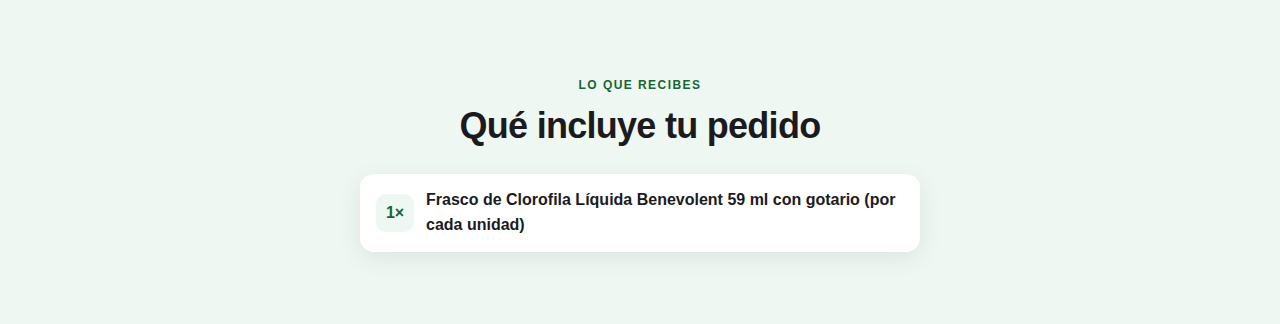
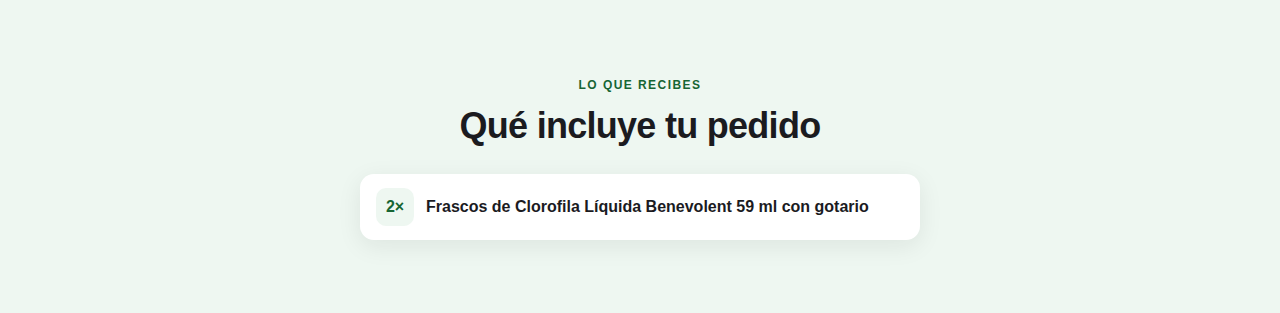
Entalle v6: ocultar todos los botones de Releasit, incluida su barra fija móvil
Claude-Session: https://claude.ai/code/session_011xhVLJXXBEnhsuAw4TkkHE

diff --git a/entalle/preview/clorofila-cod.html b/entalle/preview/clorofila-cod.html
@@ -94,7 +94,7 @@
 </div></div></section>
 <section class="el el-section el-section--soft" id="el-howto"><div class="el-container el-rv"><div class="el-head"><span class="el-eyebrow">Modo de uso</span></div><div class="el-mt"><div class="el-mt__media"><img src="media/5.webp" alt="Cómo consumir: llena un vaso, agrega 15 gotas, mezcla y disfruta" width="1254" height="1254" loading="lazy"></div><div class="el-mt__body"><h2>Fácil de incorporar a tu día</h2><div class="el-rte"><p>Llena un vaso con agua, agrega 15 gotas, mezcla y disfruta. Sigue siempre las indicaciones de la etiqueta.</p></div><ul class="el-bullets"><li >💧 15 gotas por vaso</li><li >🍃 Sabor menta, fresco</li><li >🎒 Frasco de 59 ml con gotario, fácil de llevar</li></ul></div></div></div></section>
 <section class="el el-section" id="el-ingredients"><div class="el-container el-rv"><div class="el-head"><span class="el-eyebrow">Composición</span><h2>Ingredientes naturales</h2><p>Según la etiqueta del fabricante.</p></div><div class="el-grid" style="--cols-m:2;--cols-d:6"><div class="el-card" ><div class="el-card__ico" aria-hidden="true">🍃</div><h3>Clorofila</h3></div><div class="el-card" ><div class="el-card__ico" aria-hidden="true">🌿</div><h3>Menta</h3></div><div class="el-card" ><div class="el-card__ico" aria-hidden="true">🌳</div><h3>Eucalipto</h3></div><div class="el-card" ><div class="el-card__ico" aria-hidden="true">🍵</div><h3>Té verde</h3></div><div class="el-card" ><div class="el-card__ico" aria-hidden="true">🌲</div><h3>Romero</h3></div><div class="el-card" ><div class="el-card__ico" aria-hidden="true">🟢</div><h3>Amla</h3></div></div></div></section>
-<section class="el el-section el-section--soft" id="el-included"><div class="el-container el-rv"><div class="el-head"><span class="el-eyebrow">Lo que recibes</span><h2>Qué incluye tu pedido</h2></div><ul class="el-included"><li ><b>1×</b><span>Frasco de Clorofila Líquida Benevolent 59 ml con gotario (por cada unidad)</span></li></ul></div></section>
+<section class="el el-section el-section--soft" id="el-included"><div class="el-container el-rv"><div class="el-head"><span class="el-eyebrow">Lo que recibes</span><h2>Qué incluye tu pedido</h2></div><ul class="el-included"><li ><b><span data-el-qty-mult="1">1</span>×</b><span>Frascos de Clorofila Líquida Benevolent 59 ml con gotario</span></li></ul></div></section>
 
 <section class="el el-section el-section--soft" id="el-faq"><div class="el-container el-rv"><div class="el-head"><span class="el-eyebrow">Resolvemos tus dudas</span><h2>Preguntas frecuentes</h2></div><div class="el-faq el-acc"><details ><summary>¿Cómo funciona el 2x1?</summary><div class="el-rte"><p>Elige la opción «Lleva 2 y paga 1»: recibes 2 frascos por $28.990, el mismo precio de un frasco individual. Si quieres más, el pack para compartir trae 4 frascos por $57.980 (dos promociones 2x1). También puedes comprar 1 frasco por $28.990.</p></div></details><details ><summary>¿Cuánto demora en llegar?</summary><div class="el-rte"><p>Tu pedido llega entre 2 y 6 días después de la compra. Arriba del botón de compra ves las fechas estimadas según el día en que compras.</p></div></details><details ><summary>¿El envío tiene costo?</summary><div class="el-rte"><p>No. El envío es gratis en todos los pedidos.</p></div></details><details ><summary>¿Cómo se consume?</summary><div class="el-rte"><p>Agrega 15 gotas a un vaso de agua, mezcla y disfruta. Sigue siempre las indicaciones de la etiqueta.</p></div></details><details ><summary>¿Tiene alcohol o gluten?</summary><div class="el-rte"><p>No. Es una fórmula sin alcohol, sin gluten y apta para veganos.</p></div></details><details ><summary>¿Puedo tomarlo si estoy embarazada o tomo medicamentos?</summary><div class="el-rte"><p>Si estás embarazada, amamantando o en tratamiento médico, consulta a tu médico antes de consumirlo.</p></div></details><details ><summary>¿Qué pasa si tengo un problema con mi pedido?</summary><div class="el-rte"><p>Tienes 30 días de garantía. Escríbenos por WhatsApp al +56 9 4058 9575 o a contacto@entalle.cl y lo resolvemos.</p></div></details></div><script type="application/ld+json">{"@context":"https://schema.org","@type":"FAQPage","mainEntity":[{"@type":"Question","name":"¿Cómo funciona el 2x1?","acceptedAnswer":{"@type":"Answer","text":"Elige la opción «Lleva 2 y paga 1»: recibes 2 frascos por $28.990, el mismo precio de un frasco individual. Si quieres más, el pack para compartir trae 4 frascos por $57.980 (dos promociones 2x1). También puedes comprar 1 frasco por $28.990."}},{"@type":"Question","name":"¿Cuánto demora en llegar?","acceptedAnswer":{"@type":"Answer","text":"Tu pedido llega entre 2 y 6 días después de la compra. Arriba del botón de compra ves las fechas estimadas según el día en que compras."}},{"@type":"Question","name":"¿El envío tiene costo?","acceptedAnswer":{"@type":"Answer","text":"No. El envío es gratis en todos los pedidos."}},{"@type":"Question","name":"¿Cómo se consume?","acceptedAnswer":{"@type":"Answer","text":"Agrega 15 gotas a un vaso de agua, mezcla y disfruta. Sigue siempre las indicaciones de la etiqueta."}},{"@type":"Question","name":"¿Tiene alcohol o gluten?","acceptedAnswer":{"@type":"Answer","text":"No. Es una fórmula sin alcohol, sin gluten y apta para veganos."}},{"@type":"Question","name":"¿Puedo tomarlo si estoy embarazada o tomo medicamentos?","acceptedAnswer":{"@type":"Answer","text":"Si estás embarazada, amamantando o en tratamiento médico, consulta a tu médico antes de consumirlo."}},{"@type":"Question","name":"¿Qué pasa si tengo un problema con mi pedido?","acceptedAnswer":{"@type":"Answer","text":"Tienes 30 días de garantía. Escríbenos por WhatsApp al +56 9 4058 9575 o a contacto@entalle.cl y lo resolvemos."}}]}</script><div style="max-width:440px;margin:28px auto 0"><button type="button" class="el-btn el-anim-pulse " data-el-buy data-el-anim>
   <span class="el-btn__txt"><span data-el-buy-label>PIDE AHORA</span><small>Pagas al recibir</small></span>
@@ -128,5 +128,5 @@
   </div>
 </div><a class="el el-float el-float--wa" href="https://wa.me/56940589575?text=Hola%2C%20tengo%20una%20consulta%20sobre%20Clorofila%20L%C3%ADquida%20Benevolent%2059%20ml%20%C2%B7%202x1" target="_blank" rel="noopener" aria-label="Escríbenos por WhatsApp"><svg viewBox="0 0 32 32" aria-hidden="true"><path d="M16 3C9 3 3.3 8.6 3.3 15.6c0 2.4.7 4.7 1.9 6.7L3 29l6.9-2.1c1.9 1 4 1.6 6.1 1.6 7 0 12.7-5.7 12.7-12.7S23 3 16 3zm0 23.2c-1.9 0-3.8-.5-5.4-1.5l-.4-.2-4.1 1.2 1.2-4-.3-.4c-1.1-1.7-1.7-3.7-1.7-5.7C5.3 9.8 10.1 5 16 5s10.7 4.8 10.7 10.7S21.9 26.2 16 26.2zm5.9-8c-.3-.2-1.9-.9-2.2-1-.3-.1-.5-.2-.7.2-.2.3-.8 1-1 1.2-.2.2-.4.2-.7.1-.3-.2-1.4-.5-2.6-1.6-1-.9-1.6-1.9-1.8-2.3-.2-.3 0-.5.1-.7l.5-.6c.2-.2.2-.3.3-.6.1-.2 0-.4 0-.6l-1-2.4c-.3-.6-.5-.5-.7-.5h-.6c-.2 0-.6.1-.9.4-.3.3-1.2 1.2-1.2 2.9s1.2 3.4 1.4 3.6c.2.2 2.4 3.7 5.9 5.1 2.9 1.1 3.5.9 4.1.8.6-.1 1.9-.8 2.2-1.5.3-.8.3-1.4.2-1.5-.1-.2-.3-.3-.6-.4z"/></svg></a><button type="button" class="el el-float el-float--top" data-el-top aria-label="Volver arriba" tabindex="-1">↑</button>
 </main><footer class="footer" style="padding:48px 16px;color:#fff">Pie de página (simulado)</footer>
-<script>window.__nav=[];</script><script>document.addEventListener('DOMContentLoaded',function(){var f=document.querySelector('[data-el-form]');f&&f.insertAdjacentHTML('beforeend',"<div class=\"_rsi-buy-now-button-app-block\"><button type=\"button\" class=\"_rsi-buy-now-button\" onclick=\"document.getElementById('codmodal').style.display='block';window.__codOpened=(window.__codOpened||0)+1\">Buy with Cash on Delivery</button></div>");document.body.insertAdjacentHTML('beforeend',"<div id=\"codmodal\" class=\"_rsi-modal\" style=\"display:none;position:fixed;inset:0;background:#0008;z-index:100\"><div style=\"background:#fff;margin:40px auto;max-width:420px;height:70vh;padding:20px\">Formulario COD simulado <button onclick=\"this.closest('#codmodal').style.display='none'\">cerrar</button></div></div>");});</script>
+<script>window.__nav=[];</script><script>document.addEventListener('DOMContentLoaded',function(){var f=document.querySelector('[data-el-form]');f&&f.insertAdjacentHTML('beforeend',"<div class=\"_rsi-buy-now-button-app-block\"><button type=\"button\" class=\"_rsi-buy-now-button\" onclick=\"document.getElementById('codmodal').style.display='block';window.__codOpened=(window.__codOpened||0)+1\">Buy with Cash on Delivery</button></div><div class=\"_rsi-sticky-bar\" style=\"position:fixed;left:0;right:0;bottom:0;z-index:70;background:#000;padding:10px\"><button type=\"button\" class=\"_rsi-sticky-btn\" onclick=\"document.getElementById('codmodal').style.display='block';window.__codOpened=(window.__codOpened||0)+1\">Buy with Cash on Delivery</button></div>");document.body.insertAdjacentHTML('beforeend',"<div id=\"codmodal\" class=\"_rsi-modal\" style=\"display:none;position:fixed;inset:0;background:#0008;z-index:100\"><div style=\"background:#fff;margin:40px auto;max-width:420px;height:70vh;padding:20px\">Formulario COD simulado <button onclick=\"this.closest('#codmodal').style.display='none'\">cerrar</button></div></div>");});</script>
 <script src="../theme/assets/el-core.js" defer></script></body></html>

diff --git a/entalle/theme/assets/el-core.js b/entalle/theme/assets/el-core.js
@@ -90,31 +90,49 @@
   var COD_CLS = /(^|[\s_-])(rsi|releasit)/i;
   function ours(el) { return el.closest('[data-el-buy],.el-sticky,.el-float,.el-offer,.el-acc,.el-gallery,[data-el-ignore]'); }
   function meta(el) { var c = el.className; c = (c && c.baseVal !== undefined) ? c.baseVal : (c || ''); return c + ' ' + (el.id || ''); }
-  function findCod() {
-    var scope = (S.root && S.root.querySelector('.el-buy')) || document;
-    var sets = [scope, document];
-    for (var s = 0; s < sets.length; s++) {
-      var list = sets[s].querySelectorAll('button,a,[role=button],input[type=submit]');
-      for (var i = 0; i < list.length; i++) {
-        var el = list[i];
-        if (ours(el)) continue;
-        if (COD_CLS.test(meta(el)) || (el.parentElement && COD_CLS.test(meta(el.parentElement)))) return el;
-        if (s === 0 && COD_TXT.test((el.innerText || el.value || '').trim())) return el;
-      }
+  // Releasit puede insertar varios botones: el del producto y una barra fija inferior en móvil.
+  // Se ocultan todos (siguen en el DOM y se usan para abrir su formulario).
+  function fixedAncestor(el) {
+    for (var n = el; n && n !== document.body; n = n.parentElement) {
+      var p = getComputedStyle(n).position;
+      if (p === 'fixed' || p === 'sticky') return n;
     }
     return null;
   }
+  function findAllCod() {
+    var scope = (S.root && S.root.querySelector('.el-buy')) || document, out = [];
+    var list = document.querySelectorAll('button,a,[role=button],input[type=submit]');
+    for (var i = 0; i < list.length; i++) {
+      var el = list[i];
+      if (ours(el) || out.indexOf(el) > -1) continue;
+      var byCls = COD_CLS.test(meta(el)) || (el.parentElement && COD_CLS.test(meta(el.parentElement)));
+      var byTxt = COD_TXT.test((el.innerText || el.textContent || el.value || '').trim());
+      if (byCls || (byTxt && (scope.contains(el) || fixedAncestor(el) || el.classList.contains('el-cod-btn')))) out.push(el);
+    }
+    return out;
+  }
+  function findCod() {
+    if (EL.codBtn && EL.codBtn.isConnected) return EL.codBtn;
+    var all = findAllCod();
+    return all.filter(function (b) { return !b.closest('.el-cod-fixed'); })[0] || all[0] || null;
+  }
   function hideCod(b) {
-    var box = b, p = b.parentElement;
-    if (p && p.children.length === 1 && !p.matches('form,.el-buy')) box = p;
+    if (b.classList.contains('el-cod-btn')) return;
+    b.classList.add('el-cod-btn');
+    var fx = fixedAncestor(b), box = fx || b, p = b.parentElement;
+    if (!fx && p && p.children.length === 1 && !p.matches('form,.el-buy')) box = p;
+    if (fx) box.classList.add('el-cod-fixed');
     box.classList.add('el-cod-hidden');
-    box.style.cssText += ';position:absolute!important;left:-9999px!important;width:1px!important;height:1px!important;overflow:hidden!important;opacity:0!important';
+    box.style.cssText += ';position:absolute!important;left:-9999px!important;top:auto!important;bottom:auto!important;width:1px!important;height:1px!important;overflow:hidden!important;opacity:0!important;pointer-events:none!important';
     box.setAttribute('aria-hidden', 'true'); b.tabIndex = -1;
   }
   EL.adoptCod = function () {
-    var root = S.root; if (!root || root.dataset.cod === 'off') return;
-    var b = findCod(); if (b) { hideCod(b); root.classList.add('el-has-cod'); return true; }
-    return false;
+    var root = S.root; if (!root || root.dataset.cod === 'off') return false;
+    var all = findAllCod(); if (!all.length) return false;
+    all.forEach(hideCod);
+    if (!EL.codBtn || !EL.codBtn.isConnected) EL.codBtn = findCod();
+    root.classList.add('el-has-cod');
+    return true;
   };
 
   var lock = false;
@@ -299,10 +317,12 @@
   }
   function boot() {
     init(document); initSticky(); initTop(); modalWatch();
-    if (!EL.adoptCod() && 'MutationObserver' in window) {
-      var mo = new MutationObserver(function () { if (EL.adoptCod()) mo.disconnect(); });
-      mo.observe(document.body, { childList: true, subtree: true });
-      setTimeout(function () { mo.disconnect(); }, 15000);
+    EL.adoptCod();
+    if ('MutationObserver' in window) {
+      // Observa siempre: Releasit puede crear su barra fija al hacer scroll o tras cargar.
+      var pend = false;
+      new MutationObserver(function () { if (!pend) { pend = true; requestAnimationFrame(function () { pend = false; EL.adoptCod(); }); } })
+        .observe(document.body, { childList: true, subtree: true });
     }
   }
   if (document.readyState === 'loading') document.addEventListener('DOMContentLoaded', boot); else boot();
